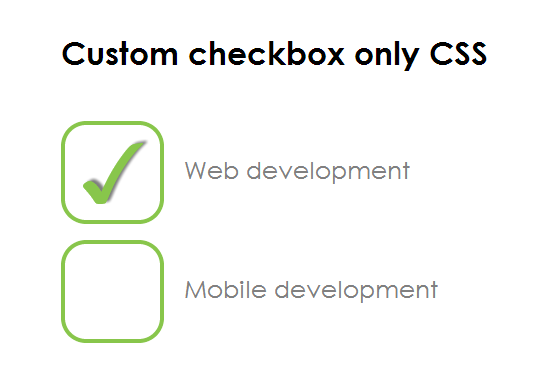
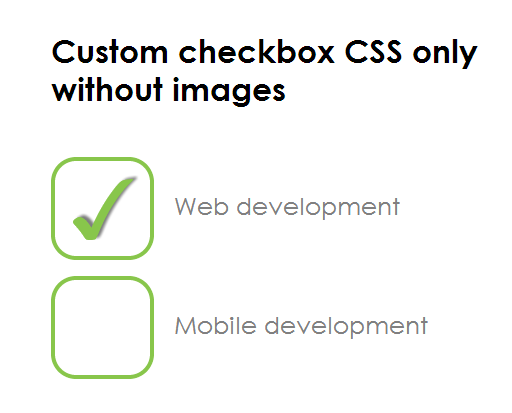
Second commit

diff --git a/index.html b/index.html
@@ -6,7 +6,7 @@
 	<link rel="stylesheet" href="style.css">
 </head>
 <body>
-	<h1>Custom checkbox only CSS</h1>
+	<h1>Custom checkbox CSS only without images</h1>
 	<p>
 		<input type="checkbox" id="check1" checked>
 		<label for="check1">Web development</label>
